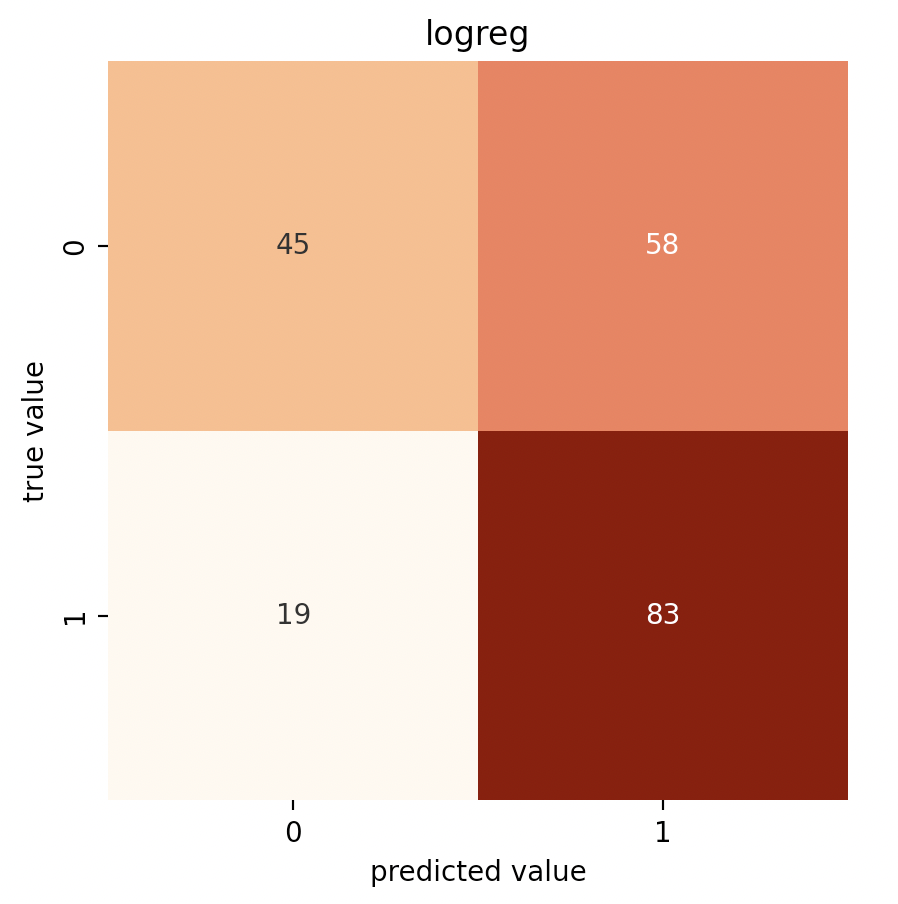
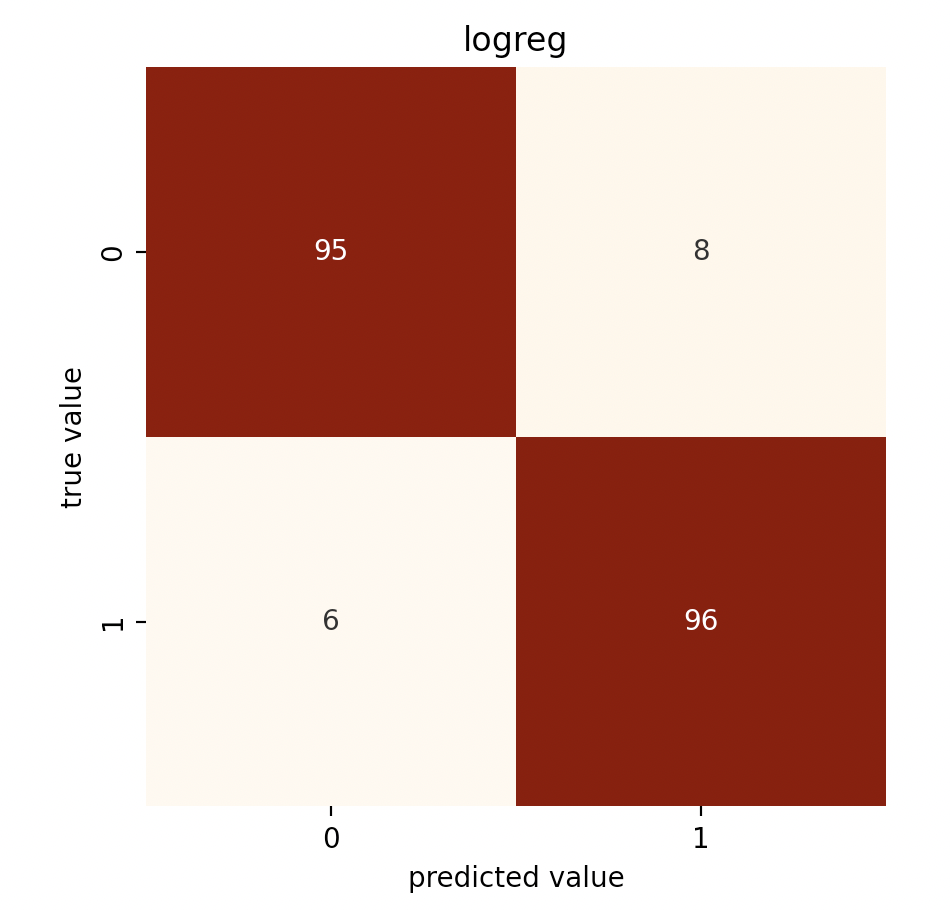
notes update

diff --git a/src/sc_logreg_ex.py b/src/sc_logreg_ex.py
@@ -3,7 +3,7 @@
 This file is intended for testing logistic regression model.
 '''
 #project
-from util.sc_helpers import get_Xy, plot_cm, class_report, tt_split, get_data, get_categories
+from util.sc_helpers import get_Xy, plot_cm, class_report, tt_split, get_data
 from util.sc_resample import upsample, downsample
 from util.sc_feature_selection import tune_rfe, plot_tune, rec_feature_selection, fwd_feature_selection
 from util.model import main_predictors, norm_cols
@@ -61,42 +61,40 @@ def fwd_feature_select(df,n_features,predictors_list):
 
 def main():
     df = get_data()
-    norm_cenrot_sym_diff,_ = get_categories(df)
 
-    # print('Testing out [boxratio, interoc,interoc_norm,boxsize,boxsize/interoc]')
-    # print('Partition 1 - Without feature selection')
-    # without_f(df,main_predictors) 
-    # print('Partition 1 - Feature selection')
-    # num_features_selected = rec_feature_tune(df,main_predictors)
-    # print('Partition 1 - With Feature selection')
-    # rec_feature_select(df,main_predictors,num_features_selected)
-    # print('Partition 1 - With Feature selection & downsampled')
-    # df_downsampled = downsample(df)
-    # rec_feature_select(df_downsampled,main_predictors,num_features_selected)
+    print('Testing out [boxratio, interoc,interoc_norm,boxsize,boxsize/interoc]')
+    print('Partition 1 - Without feature selection')
+    without_f(df,main_predictors) 
+    print('Partition 1 - Feature selection')
+    num_features_selected = rec_feature_tune(df,main_predictors)
+    print('Partition 1 - With Feature selection')
+    rec_feature_select(df,main_predictors,num_features_selected)
+    print('Partition 1 - With Feature selection & downsampled')
+    df_downsampled = downsample(df)
+    rec_feature_select(df_downsampled,main_predictors,num_features_selected)
 
-    # print('Testing out [norm_cenrot-]')
-    # print('Partition 2 - Without feature selection')
-    # without_f(df,norm_cols[0]) 
-    # print('Partition 2 - Feature selection')
-    # num_features_selected = rec_feature_tune(df,norm_cols[0])
-    # print('Partition 2 - With Feature selection')
+    print('Testing out [norm_cenrot-]')
+    print('Partition 2 - Without feature selection')
+    without_f(df,norm_cols[0]) 
+    print('Partition 2 - Feature selection')
+    num_features_selected = rec_feature_tune(df,norm_cols[0])
+    print('Partition 2 - With Feature selection')
     rec_feature_select(df,norm_cols[0],29)
     print('Partition 2 - With Feature selection & downsampled')
     df_downsampled = downsample(df)
     rec_feature_select(df_downsampled,norm_cols[0],29)
 
-
-    # print('Testing out boxratio + specific eucdistances')
-    # df = get_data('data/merged_landmarks_dist.csv')
-    # predictors_list = ['boxratio','dist_5_7', 'dist_7_9', 'dist_7_48', 'dist_18_25', 'dist_21_22', 'dist_33_42']
-    # print('Partition 3 - Without feature selection')
-    # without_f(df,predictors_list) 
-    # print('Partition 3 - Feature selection')
-    # num_features_selected = rec_feature_tune(df,predictors_list)
-    # print('Partition 3 - With Feature selection')
-    # rec_feature_select(df,predictors_list,num_features_selected)
-    # df_downsampled = downsample(df)
-    # rec_feature_select(df_downsampled,predictors_list,num_features_selected)
+    print('Testing out boxratio + specific eucdistances')
+    df = get_data('data/merged_landmarks_dist.csv')
+    predictors_list = ['boxratio','dist_5_7', 'dist_7_9', 'dist_7_48', 'dist_18_25', 'dist_21_22', 'dist_33_42']
+    print('Partition 3 - Without feature selection')
+    without_f(df,predictors_list) 
+    print('Partition 3 - Feature selection')
+    num_features_selected = rec_feature_tune(df,predictors_list)
+    print('Partition 3 - With Feature selection')
+    rec_feature_select(df,predictors_list,num_features_selected)
+    df_downsampled = downsample(df)
+    rec_feature_select(df_downsampled,predictors_list,num_features_selected)
 
 
 if __name__ == "__main__":

diff --git a/logreg.md b/logreg.md
@@ -40,9 +40,7 @@ This is a rough first test using small random validation set, but it indicates t
 ## Logistic Regression: Take 2
 One of our goals is to test out different forms of resampling to balance the data. We wanted to know if resampling would have a positive impact on model accuracy. We found that "downsampled" scores were consistently better (even if it reduced the accuracy rating by 0.1 or so, the recall scores greatly improved), so we can conclude that downsampling is a good strategy for this model. 
 
-Building off of our findings in Take 1 above, the "one feature" model using just `['boxratio']` stood out to us as pretty good. For more information on how this model preformed with other groups of features, please see `notes/notes_logreg`.
-
-If you really wanted recall scores to be even better, the "13 feature" model with the normalized & rotated coordinate data appears to be better than the just normalized coordinate data given the similarity in scores and great reduction of features. This provides good evidence that the preprocessing adjustments done to the data are worthwhile.
+Building off of our findings in Take 1 above, the "one feature" model using just `['boxratio']` stood out to us as pretty good. For more information on how this model preformed with other groups of features, please see `notes/sc_notes_logreg`.
 
 In many of these instances, we did recursive feature selection to select the best (and minimum) number of features. Espeically in the cases where we are using 66+ features, we found that using feature selection greatly improved both the accuracy and recall scores of our model. This is likely due to logistic regression preforming better with minimal colinearity. 
 
@@ -59,22 +57,16 @@ Confusion matrix:
 
 <img src="figs/soph_logreg/p1_fd_cmat.png" width=600>
 
-13 features (normalized & rotated coord data), downsampling:
-* Accuracy score: 0.94
-* Recall score adult: 0.92
-* Recall score baby: 0.96
+We beleive this model preformed well due to the preproccing adjsutments that went into the `boxratio` predictor (the data was normalized), and the fact that this feature is seperable:
 
-CV to tune optimal features:
-
-<img src="figs/soph_logreg/p5_f_cv.png" width=600>
-
-Confusion matrix:
-
-<img src="figs/soph_logreg/p4_fd_cmat.png" width=600>
+<img src="soph_logreg/dist_p.png" width=600>
 
 To reproduce the results from this section run:
 ```
 make logreg_test
+```
+```
+make logreg_eda
 ```
 ## Logistic Regression: Take 3
 Inspired by our sucess with using `boxratio` (ratio between the width and height of the head) as a single predictor, we had the idea of trying to identify more "distances" between facial features that could help classify adults vs infants.

diff --git a/notes/sc_notes_logreg.md b/notes/sc_notes_logreg.md
@@ -55,7 +55,7 @@ Confusion matrix:
 <img src="soph_logreg/p1_fd_cmat.png" width=600>
 
 **Partition 2: The "norm_cenrot" column**
-This partition was pretty strong even before feature selection (is overfitting a possibility? It is a lot of features). After feature selection the acurracy score was only ok (perhaps did not eliminate enough of the colinearity), and the score really dropped after downsampling (perhaps not enough data).
+This partition was pretty strong even before feature selection (is overfitting a possibility? It is a lot of features).
 
 Without feature selection:
 * Accuracy score: 0.96
@@ -68,9 +68,9 @@ Confusion matrix:
 
 With feature selection:
 * Optimal features is 29
-* Accuracy score: .76
-* Recall score adult: 0.84
-* Recall score baby: 0.65
+* Accuracy score: .91
+* Recall score adult: 1.00
+* Recall score baby: 0.77
 
 CV to tune optimal features:
 
@@ -81,9 +81,9 @@ Confusion matrix:
 <img src="soph_logreg/p2_f_cmat.png" width=600>
 
 With feature selection & downsampling:
-* Accuracy score: 0.61
-* Recall score adult: 0.44
-* Recall score baby: 0.81
+* Accuracy score: 0.93
+* Recall score adult: 0.92
+* Recall score baby: 0.94
 
 Confusion matrix:
 

diff --git a/notes/sc_summary_logreg.md b/notes/sc_summary_logreg.md
@@ -1,7 +1,7 @@
 # DS5110 faces: Logistic Regression Exploration Summary - Sophia
 The purpose of this file is to explain the main takeaways from the logreg model exploration.
 
-More information about EDA, sampling methods attempted, hyper-parameter tuning, and data partitions tested please see `notes/notes_logreg` and `notes/notes_logreg_dist`.
+More information about EDA, sampling methods attempted, hyper-parameter tuning, and data partitions tested please see `notes/sc_notes_logreg` and `notes/sc_notes_logreg_dist`.
 
 ## Logistic Regression: Take 1
 One of our goals is to test out different forms of resampling to balance the data. We wanted to know if resampling would have a positive impact on model accuracy. We found that "downsampled" scores were consistently better (even if it reduced the accuracy rating by 0.1 or so, the recall scores greatly improved), so we can conclude that downsampling is a good strategy for this model. 
